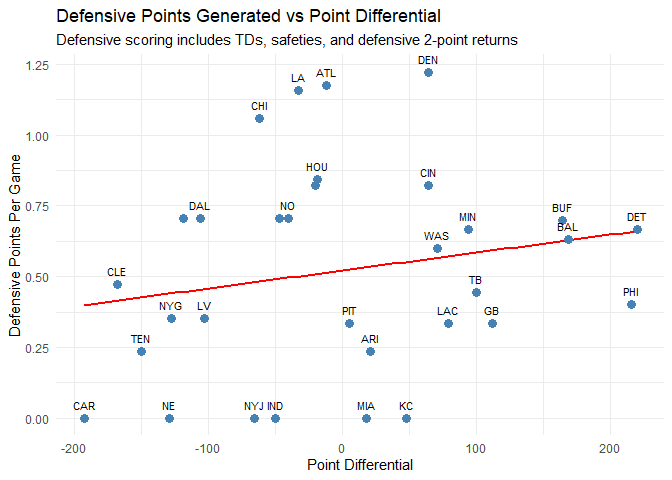
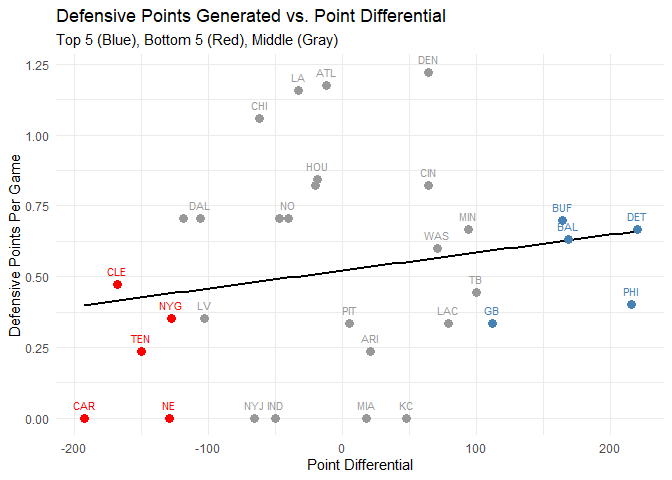
ffixed dot plots

diff --git a/README.md b/README.md
@@ -816,6 +816,27 @@ pbp %>%
     ## # ℹ 195 more rows
     ## # ℹ 1 more variable: IsInterception <dbl>
 
+``` r
+# Helper: label Top N / Bottom N for bar-chart coloring
+add_top_bottom <- function(df, value_col, n = 5) {
+  value_col <- rlang::ensym(value_col)
+
+  df %>%
+    mutate(
+      .val = !!value_col,
+      # handle small charts (e.g., only 4 downs)
+      .n = min(n, dplyr::n()),
+      RankColor = case_when(
+        dplyr::dense_rank(dplyr::desc(.val)) <= .n ~ "Top 5",
+        dplyr::dense_rank(.val) <= .n ~ "Bottom 5",
+        TRUE ~ "Middle"
+      ),
+      RankColor = factor(RankColor, levels = c("Top 5", "Middle", "Bottom 5"))
+    ) %>%
+    select(-.val, -.-n)
+}
+```
+
 ## Basic Data Exporation
 
 ``` r
@@ -1609,7 +1630,7 @@ combined_offense %>%
   
   labs(
     title = "4th Quarter Efficiency (Top 5 vs Bottom 5)", 
-    subtitle = "Yards Per Play in Q4 — Top 5 (Steelblue) vs Bottom 5 (Red)",
+    subtitle = "Yards Per Play in Q4 — Top 5 (Blue) vs Bottom 5 (Red)",
     x = "Team", 
     y = "Yards Per Play"
   ) + 
